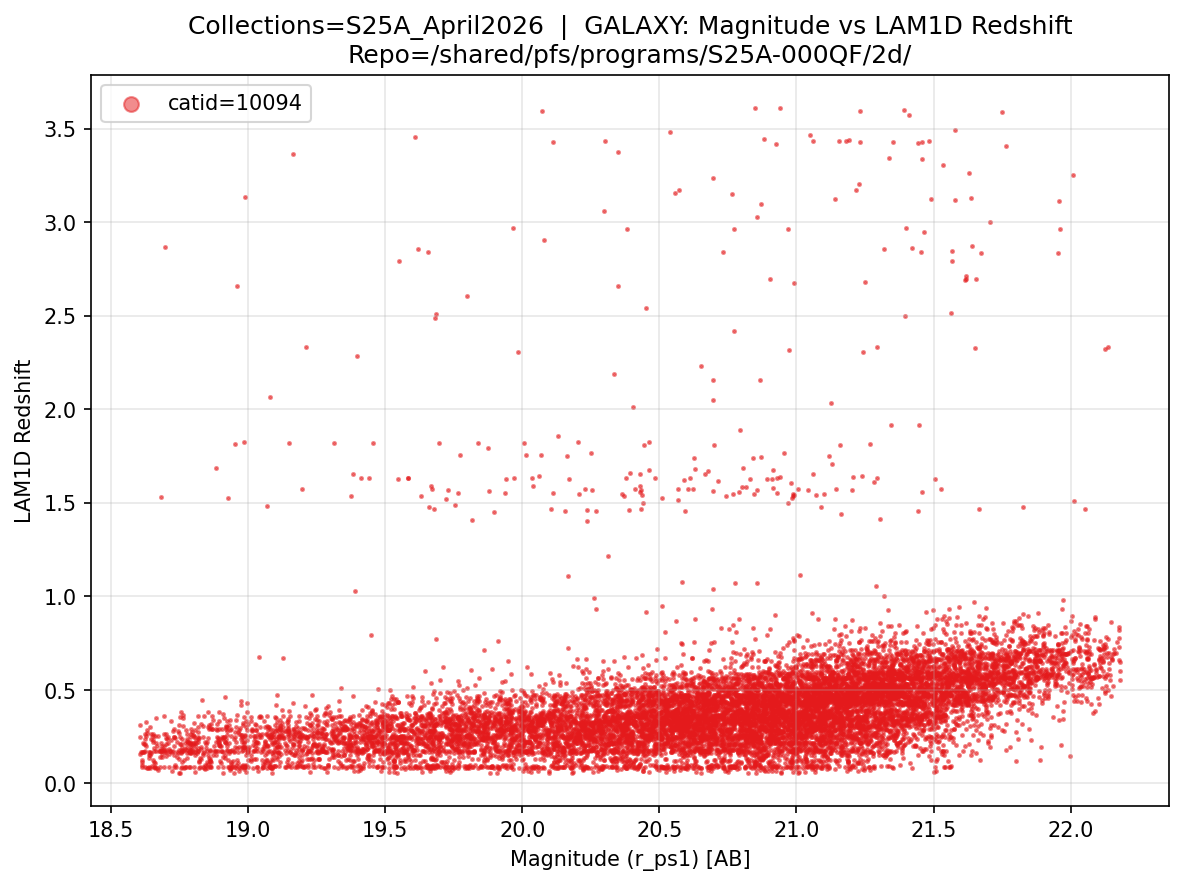
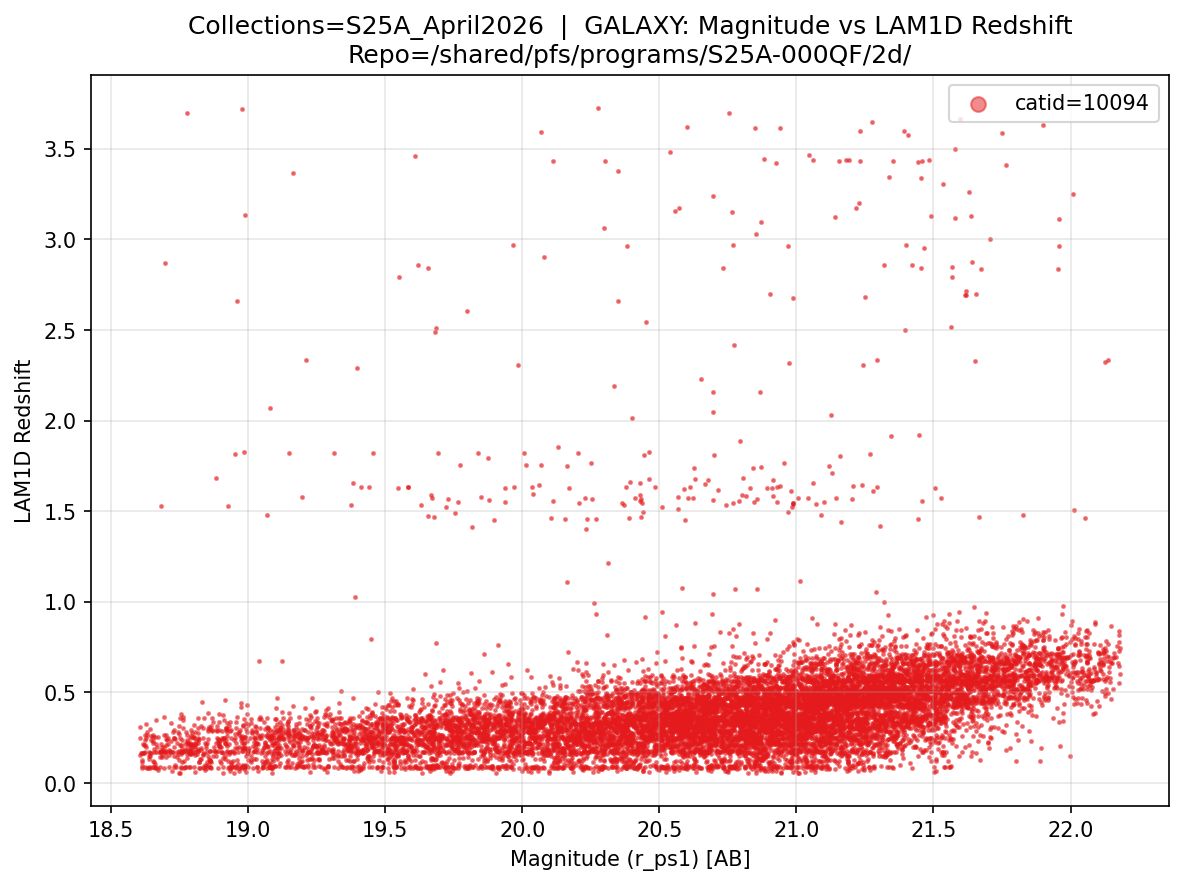
Update mag vs redshift/velocity plots and LAM 1D page text
Refresh the three magnitude diagnostic figures and sync the object-table
and coadd+LAM1D page wording/output.

diff --git a/docs/04_13_lam1d_coadd_lines.md b/docs/04_13_lam1d_coadd_lines.md
@@ -1,12 +1,12 @@
 # pfsCoadd Spectrum + LAM 1D Model
 
-The following code plots the `pfsCoadd` spectrum of a single object overlaid with the LAM 1D best-fit model, and marks detected spectral lines. It requires the `{collections}_all_lam1d.csv` file produced by the object table code in the [pfsCoZCandidates](04_12_lam1d_zcandidates.md) section — run that code once before using this plotter.
+The following code uses the `objid to`plot the `pfsCoadd` spectrum of a single object overlaid with the LAM 1D best-fit model, and marks detected spectral lines. Alternatively, It can use the `{collections}_all_lam1d.csv` file produced by the object table code in the [pfsCoZCandidates](04_12_lam1d_zcandidates.md) section to search for objects by redshift/velocty or browse by index (csv is not required for a simple `objid` search) . Run that code once before using this plotter if using method the second or third selection method.
 
 The code supports three modes of object selection:
 
-- **By `objid`** — plots that object directly, auto-detecting its class from the CSV.
+- **By** `objid` — plots that object directly, auto-detecting its class using `Butler` (object table csv not required).
 - **By class + redshift/velocity** — finds the object in the CSV closest to a target redshift (GALAXY/QSO) or velocity (STAR) provided.
-- **By class + `browse_index`** — steps through all objects of a given class sorted by descending redshift/velocity.
+- **By class +** `browse_index` — steps through all objects of a given class sorted by descending redshift/velocity.
 
 Once an object is loaded, the code fetches the `pfsCoadd` spectrum via `Butler` and reads the corresponding LAM 1D FITS file directly from disk. The main plot shows the observed spectrum (black) and the LAM 1D model fit (red) with detected line positions marked. For GALAXY and QSO objects, up to four zoom panels below the main plot show the top-ranked lines by SNR, with the line name, SNR, and equivalent width displayed. A summary table of the top 10 lines by SNR is also printed to the terminal.
 
@@ -331,7 +331,10 @@ plot_pfscoadd_lam1d(
 )
 ```
 
+
+
 **Output**:
+
 ```
 Auto-detected class: GALAXY for objId=120731449862702300
 Loading pfsCoadd for catid=10094 obj_group=14...

diff --git a/docs/04_12_lam1d_zcandidates.md b/docs/04_12_lam1d_zcandidates.md
@@ -85,7 +85,7 @@ The same ranked-candidate structure applies to `QSO_CANDIDATES` (HDU #10) and `S
 
 ## Build LAM 1D Object Table & Plot Magnitude vs Redshift/Velocity
 
-The following code builds a combined object table across all LAM 1D results in a `collection` with the best object type and redshift/velocity values as indicated by the pipeline. It works in three steps:
+The following code builds a combined object table across all LAM 1D results in a `collection` with the best object classification and redshift/velocity values as indicated by the pipeline. It works in three steps:
 
 1. **Magnitude lookup** — iterates over all visits in the `collection` via `pfsMerged`, extracting per-object magnitudes from `pfsConfig` across all available filters.
 2. **LAM 1D FITS reading** — reads all `pfsCoZCandidates` FITS files from for a given `collection`, extracting the best object classification, best redshift/velocity candidate (by highest probability), warnings, and errors for each object.
@@ -94,13 +94,6 @@ The following code builds a combined object table across all LAM 1D results in a
 After saving the CSV, the code plots **magnitude vs. redshift** (for GALAXY and QSO) and **magnitude vs. velocity** (for STAR), coloured by `catId`.
 
 ```python
-# ==== LAM1D OBJECT TABLE + MAGNITUDE VS REDSHIFT/VELOCITY PLOT ====
-
-# This code builds a magnitude table for all objects in COLLECTIONS and combines it with
-# LAM1D redshift/classification outputs (where available) into a single CSV file.
-# The CSV is used by the PFSCoadd + LAM1D spectrum plotter to browse objects by class,
-# redshift, velocity or objId. Run this code once per COLLECTIONS before using the plotter.
-
 import numpy as np
 import pandas as pd
 import matplotlib.pyplot as plt
